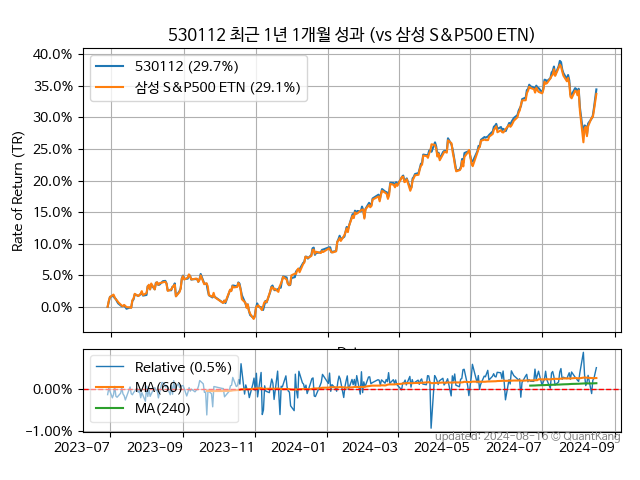
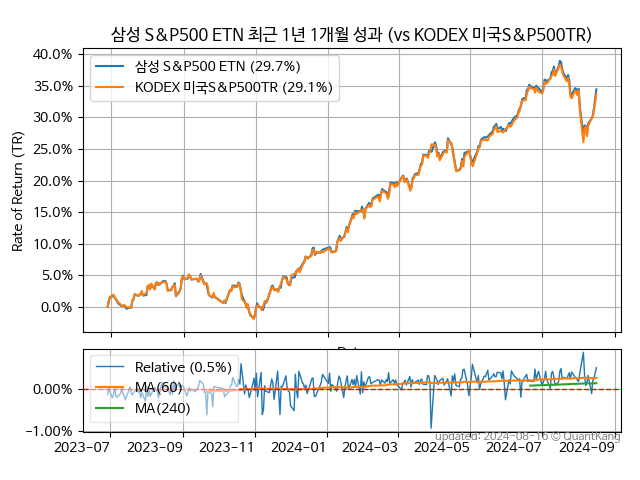
update

Changed region(s): [[0.1562, 0.0312, 0.9375, 0.0938], [0.1875, 0.125, 0.5312, 0.2188]]

diff --git a/_posts/vs/2024-08-16-530112-vs-379800.md b/_posts/vs/2024-08-16-530112-vs-379800.md
@@ -1,20 +1,20 @@
 ---
 layout: single
-title: 530112 vs 삼성 S&P500 ETN (379800)
-excerpt: 530112의 최근 1년 1개월 CAGR은 29.7%로 삼성 S&P500 ETN (379800)의 29.1%와 비슷했습니다.
+title: 삼성 S&P500 ETN (530112) vs KODEX 미국S&P500TR (379800)
+excerpt: 삼성 S&P500 ETN (530112)의 최근 1년 1개월 CAGR은 29.7%로 KODEX 미국S&P500TR (379800)의 29.1%와 비슷했습니다.
 header:
   overlay_color: "#333"
   show_overlay_excerpt: false
 toc: true
 categories:
 - vs
-keywords: 삼성 S&P500 ETN, 530112, 530112 삼성 S&P500 ETN 비교, 379800, 530112 530112 비교
+keywords: KODEX 미국S&P500TR, 삼성 S&P500 ETN, 삼성 S&P500 ETN KODEX 미국S&P500TR 비교, 530112, 379800, 530112 530112 비교
 ---
 
 ## 비교 상품 소개
 
 
-530112 상품과 삼성 S&P500 ETN (379800) 상품의 성과를 수익률과 위험도로 비교합니다.
+삼성 S&P500 ETN (530112) 상품과 KODEX 미국S&P500TR (379800) 상품의 성과를 수익률과 위험도로 비교합니다.
 
 
 
@@ -26,33 +26,33 @@ keywords: 삼성 S&P500 ETN, 530112, 530112 삼성 S&P500 ETN 비교, 379800, 53
 
 두 상품의 성과를 비교할 수 있는 가장 긴 기간은 최근 1년 1개월입니다. 아래는 이 기간의 성과[^fn_vs_perf]를 그래프와 표로 나타낸 것입니다.
 그래프 범례에서 괄호안의 퍼센트 수치는 CAGR[^fn_vs_cagr_metric]입니다.
-하단의 보조 그래프는 삼성 S&P500 ETN 대비 530112의 비를 나타냅니다.
-530112의 수익률이 삼성 S&P500 ETN보다 지속적으로 우세하면 상승하고, 반대의 경우에는 하락합니다.
+하단의 보조 그래프는 KODEX 미국S&P500TR 대비 삼성 S&P500 ETN의 비를 나타냅니다.
+삼성 S&P500 ETN의 수익률이 KODEX 미국S&P500TR보다 지속적으로 우세하면 상승하고, 반대의 경우에는 하락합니다.
 
-![530112](/vs/images/530112-vs-379800_dual.png){: .align-center}
+![삼성 S&P500 ETN](/vs/images/530112-vs-379800_dual.png){: .align-center}
 
 | **종목** | **CAGR** | **편차** | **샤프** | **MDD** | **AvDD** |
 | :------------ | ------: | -----------: | -------: | ------: | -------: |
-| 530112 | <span style="color: tomato">29.7<small>%</small></span> | 11.0<small>%</small> | 2.70 | -8.5<small>%</small> | -1.3<small>%</small> |
-| 삼성 S&P500 ETN | <span style="color: tomato">29.1<small>%</small></span> | 11.2<small>%</small> | 2.60 | -8.9<small>%</small> | -1.3<small>%</small> |
+| 삼성 S&P500 ETN | <span style="color: tomato">29.7<small>%</small></span> | 11.0<small>%</small> | 2.70 | -8.5<small>%</small> | -1.3<small>%</small> |
+| KODEX 미국S&P500TR | <span style="color: tomato">29.1<small>%</small></span> | 11.2<small>%</small> | 2.60 | -8.9<small>%</small> | -1.3<small>%</small> |
 
 <!-- more -->
 
 
 성과를 분석하는 전통적인 방법인 수익률과 위험도[^fn_vs_risk]를 살펴봅니다.
 
-**수익률 지표 (CAGR):** 530112의 CAGR은 29.7%로 삼성 S&P500 ETN의 29.1%와 비슷했습니다. (비슷한 수익률)[^fn_vs_comp]
+**수익률 지표 (CAGR):** 삼성 S&P500 ETN의 CAGR은 29.7%로 KODEX 미국S&P500TR의 29.1%와 비슷했습니다. (비슷한 수익률)[^fn_vs_comp]
 
-**위험도 지표 (표준편차):** 530112의 표준편차는 11.0%로 삼성 S&P500 ETN의 11.2%와 비슷했습니다. (비슷한 위험도)
+**위험도 지표 (표준편차):** 삼성 S&P500 ETN의 표준편차는 11.0%로 KODEX 미국S&P500TR의 11.2%와 비슷했습니다. (비슷한 위험도)
 
-**위험도 지표 (MDD):** 530112의 8.5%의 MDD는 삼성 S&P500 ETN의 8.9%와 비슷했습니다. (비슷한 위험도)
+**위험도 지표 (MDD):** 삼성 S&P500 ETN의 8.5%의 MDD는 KODEX 미국S&P500TR의 8.9%와 비슷했습니다. (비슷한 위험도)
 
 
 
 ## 동일 수준 위험 노출을 위한 비중 조절
 
 수익률과 위험도가 다른 상품을 비교하는 방법의 하나는, 둘 중 하나를 동일하게 설정하고, 나머지 하나를 비교하는 것입니다.
-여기서는 삼성 S&P500 ETN의 투자 비중[^fn_vs_weight]을 조절하여 530112의 위험도와 유사하게 맞추어 수익률를 비교합니다.
+여기서는 KODEX 미국S&P500TR의 투자 비중[^fn_vs_weight]을 조절하여 삼성 S&P500 ETN의 위험도와 유사하게 맞추어 수익률를 비교합니다.
 
 **위험도 지표 (표준편차):** 표준편차를 동일한 값으로 맞추기 위해서는 11.2% / 11.0% = 98% 비중으로 투자하면 됩니다.[^fn_vs_sharpe]
 
@@ -66,28 +66,28 @@ keywords: 삼성 S&P500 ETN, 530112, 530112 삼성 S&P500 ETN 비교, 379800, 53
 ## 동일 수준 위험하에서의 추정 성과
 
 아래는 비중을 조절한 경우를 추가하여, 그래프와 표에 성과를 기록한 것입니다.
-삼성 S&P500 ETN<sub>STD</sub>는 표준편차를 맞춘[^fn_vs_weighting] 경우이고, 삼성 S&P500 ETN<sub>MDD</sub>는 MDD를 맞춘 경우입니다.
+KODEX 미국S&P500TR<sub>STD</sub>는 표준편차를 맞춘[^fn_vs_weighting] 경우이고, KODEX 미국S&P500TR<sub>MDD</sub>는 MDD를 맞춘 경우입니다.
 앞에서와 같이 그래프 범례에서 괄호안의 퍼센트 수치는 CAGR입니다.
 
 
-![530112](/vs/images/530112-vs-379800.png){: .align-center}
+![삼성 S&P500 ETN](/vs/images/530112-vs-379800.png){: .align-center}
 
 
 
 | **종목** | **CAGR** | **편차** | **샤프** | **MDD** | **AvDD** |
 | :------------ | ------: | -----------: | -------: | ------: | -------: |
-| 530112 | <span style="color: tomato">29.7<small>%</small></span> | 11.0<small>%</small> | 2.70 | -8.5<small>%</small> | -1.3<small>%</small> |
-| 삼성 S&P500 ETN | <span style="color: tomato">29.1<small>%</small></span> | 11.2<small>%</small> | 2.60 | -8.9<small>%</small> | -1.3<small>%</small> |
-| 삼성 S&P500 ETN<sub>STD</sub> <small>(98%)</small> | <span style="color: tomato">28.6<small>%</small></span> | 11.0<small>%</small> | 2.59 | -8.7<small>%</small> | -1.2<small>%</small> |
-| 삼성 S&P500 ETN<sub>MDD</sub> <small>(95%)</small> | <span style="color: tomato">27.6<small>%</small></span> | 10.7<small>%</small> | 2.59 | -8.5<small>%</small> | -1.2<small>%</small> |
+| 삼성 S&P500 ETN | <span style="color: tomato">29.7<small>%</small></span> | 11.0<small>%</small> | 2.70 | -8.5<small>%</small> | -1.3<small>%</small> |
+| KODEX 미국S&P500TR | <span style="color: tomato">29.1<small>%</small></span> | 11.2<small>%</small> | 2.60 | -8.9<small>%</small> | -1.3<small>%</small> |
+| KODEX 미국S&P500TR<sub>STD</sub> <small>(98%)</small> | <span style="color: tomato">28.6<small>%</small></span> | 11.0<small>%</small> | 2.59 | -8.7<small>%</small> | -1.2<small>%</small> |
+| KODEX 미국S&P500TR<sub>MDD</sub> <small>(95%)</small> | <span style="color: tomato">27.6<small>%</small></span> | 10.7<small>%</small> | 2.59 | -8.5<small>%</small> | -1.2<small>%</small> |
 
 
 
-각각의 경우를 530112의 성과와 비교해 봅니다.
+각각의 경우를 삼성 S&P500 ETN의 성과와 비교해 봅니다.
 
-**위험도 지표 (표준편차):** 98% 투자 비중으로 표준편차를 비슷한 수준으로 맞추면, CAGR은 28.6%로 530112의 29.7%보다 -1.2% 낮았습니다. (낮은 수익률)
+**위험도 지표 (표준편차):** 98% 투자 비중으로 표준편차를 비슷한 수준으로 맞추면, CAGR은 28.6%로 삼성 S&P500 ETN의 29.7%보다 -1.2% 낮았습니다. (낮은 수익률)
 
-**위험도 지표 (MDD):** 95% 투자 비중으로 하여 MDD를 비슷한 수준으로 맞추면, CAGR은 27.6%로 530112의 29.7%보다 -2.2% 낮았습니다. (낮은 수익률)
+**위험도 지표 (MDD):** 95% 투자 비중으로 하여 MDD를 비슷한 수준으로 맞추면, CAGR은 27.6%로 삼성 S&P500 ETN의 29.7%보다 -2.2% 낮았습니다. (낮은 수익률)
 
 
 
@@ -99,10 +99,10 @@ keywords: 삼성 S&P500 ETN, 530112, 530112 삼성 S&P500 ETN 비교, 379800, 53
 
 지난 1년 1개월간 거치식으로 투자했다고 가정합니다.
 
-삼성 S&P500 ETN의 투자 비중을 조절하여 표준편차나 MDD를 동일하게 맞추면, CAGR이 평균 28.1%인 포트폴리오를 만들 수 있습니다.
-이 포트폴리오는 530112의 29.7%보다 -1.7% 낮았습니다.
+KODEX 미국S&P500TR의 투자 비중을 조절하여 표준편차나 MDD를 동일하게 맞추면, CAGR이 평균 28.1%인 포트폴리오를 만들 수 있습니다.
+이 포트폴리오는 삼성 S&P500 ETN의 29.7%보다 -1.7% 낮았습니다.
 
-### 530112 &gt; 삼성 S&P500 ETN
+### 삼성 S&P500 ETN &gt; KODEX 미국S&P500TR
 {: .text-center}
 
 
